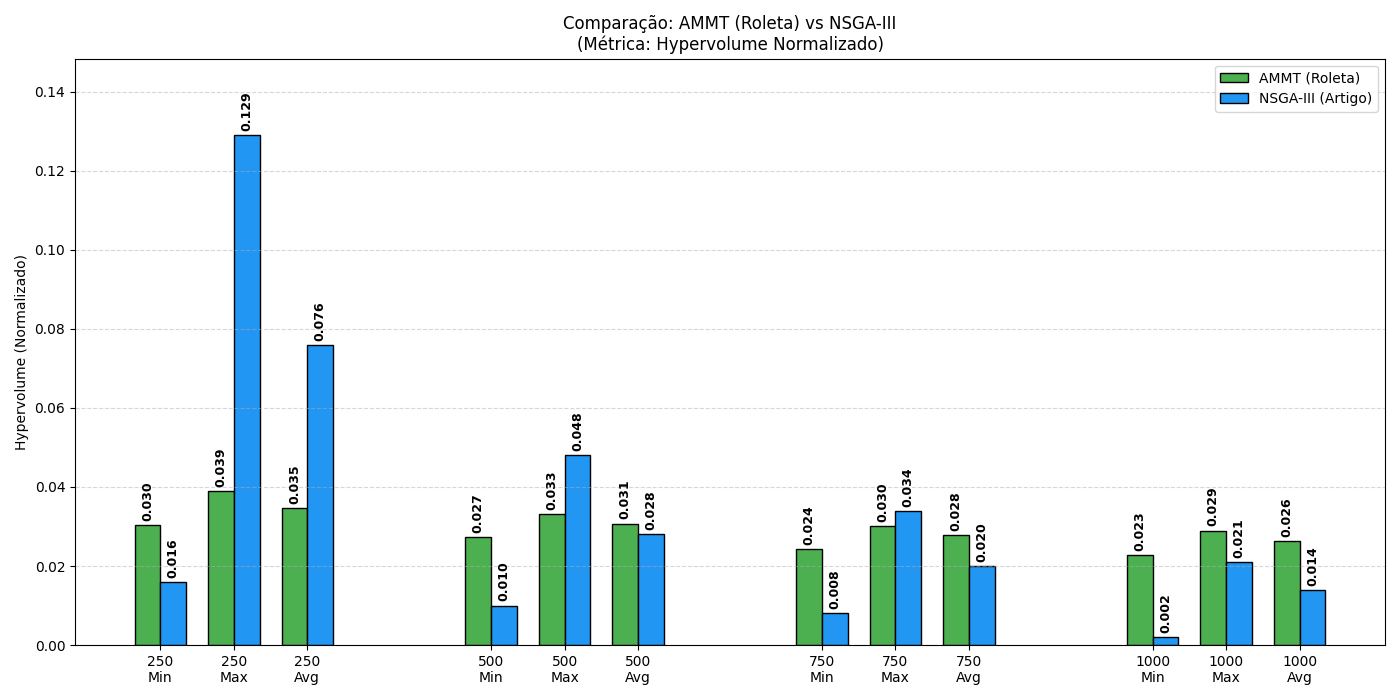
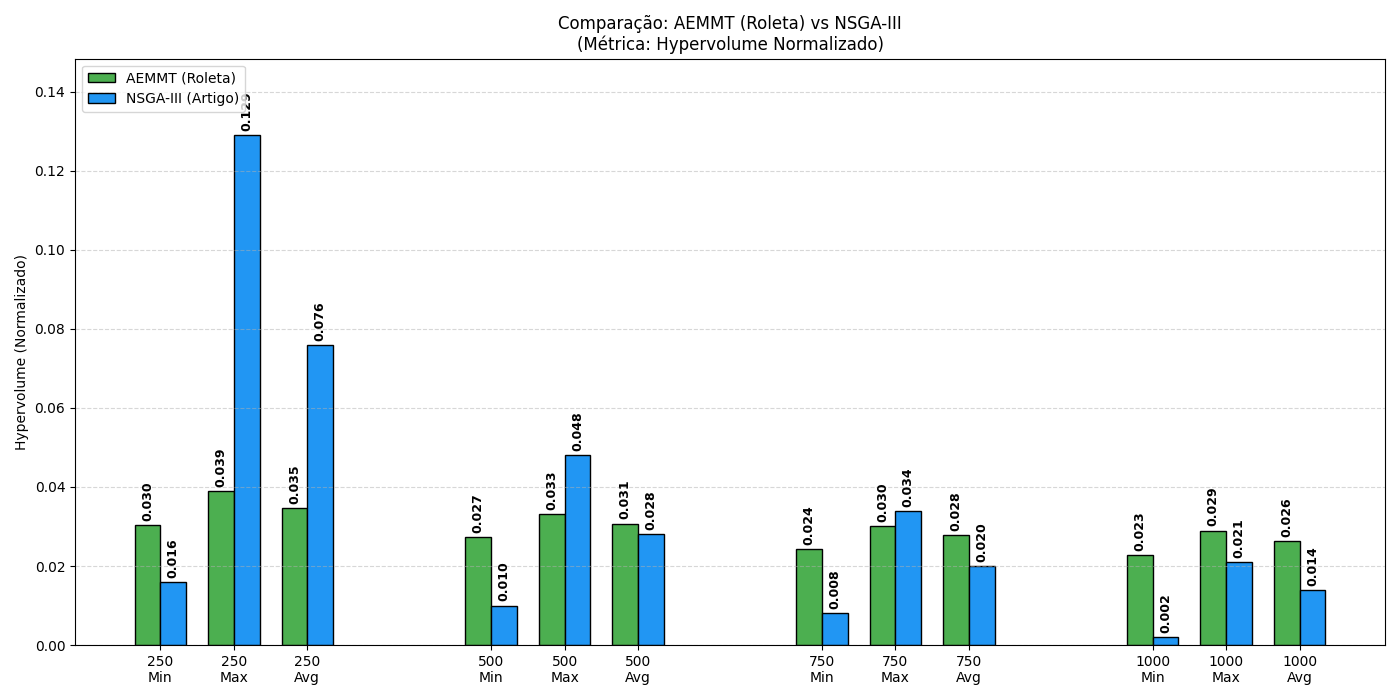
ajuste_final

Changed region(s): [[0.3993, 0.0, 0.645, 0.06], [0.86, 0.09, 0.9829, 0.15], [0.0614, 0.09, 0.1843, 0.15]]

diff --git a/plot_final_cpp.py b/plot_final_cpp.py
@@ -169,7 +169,7 @@ def main():
     ax.set_title(f'Comparação: AEMMT ({metodo_escolhido}) vs NSGA-III\n(Métrica: Hypervolume Normalizado)')
     ax.set_xticks(plot_pos)
     ax.set_xticklabels(x_labels)
-    ax.legend(loc='upper left')
+    ax.legend(loc='upper right')
     
     ax.grid(axis='y', linestyle='--', alpha=0.5)
     
